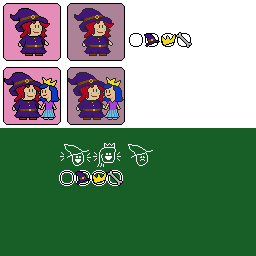
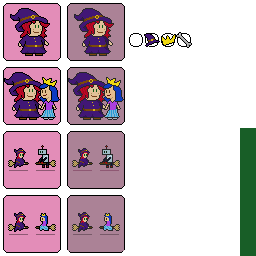
raceconfig ui, bare bones

diff --git a/src/game/modal/modal_raceconfig.c b/src/game/modal/modal_raceconfig.c
@@ -1,14 +1,23 @@
 /* modal_raceconfig.c
  * A menu that configures Broom Race Mode.
- *
- * TODO Choose player count and raceid interactively.
- * For now, I'm more interested in the actual race part, so the config is hard-coded.
  */
  
 #include "game/bellacopia.h"
+#include "game/race/race.h"
+
+#define RACE_LIMIT 8
 
 struct modal_raceconfig {
   struct modal hdr;
+  int playerc;
+  struct raceopt {
+    int raceid;
+    int strix_title;
+    int texid;
+    int x,y,w,h;
+  } raceoptv[RACE_LIMIT];
+  int raceoptc;
+  int raceoptp;
 };
 
 #define MODAL ((struct modal_raceconfig*)modal)
@@ -17,6 +26,10 @@ struct modal_raceconfig {
  */
  
 static void _raceconfig_del(struct modal *modal) {
+  while (MODAL->raceoptc>0) {
+    MODAL->raceoptc--;
+    egg_texture_del(MODAL->raceoptv[MODAL->raceoptc].texid);
+  }
 }
 
 /* Init.
@@ -25,6 +38,28 @@ static void _raceconfig_del(struct modal *modal) {
 static int _raceconfig_init(struct modal *modal,const void *args,int argslen) {
   modal->opaque=1;
   modal->interactive=1;
+  MODAL->playerc=1;
+  MODAL->raceoptp=0;
+  
+  /* Races must be ID'd consecutively from 1.
+   * Race rid matches strix in strings:arcade.
+   */
+  int y=80;
+  int raceid=1;
+  for (;MODAL->raceoptc<RACE_LIMIT;raceid++) {
+    if (!race_fld_by_id(raceid)) break;
+    struct raceopt *raceopt=MODAL->raceoptv+MODAL->raceoptc++;
+    raceopt->raceid=raceid;
+    raceopt->strix_title=raceid;
+    const char *src;
+    int srcc=text_get_string(&src,RID_strings_arcade,raceid);
+    raceopt->texid=font_render_to_texture(0,g.font,src,srcc,FBW,FBH,0xffffffff);
+    egg_texture_get_size(&raceopt->w,&raceopt->h,raceopt->texid);
+    raceopt->x=120;
+    raceopt->y=y;
+    y+=raceopt->h+1;
+  }
+  
   return 0;
 }
 
@@ -43,13 +78,15 @@ static void raceconfig_activate(struct modal *modal) {
   fprintf(stderr,"%d %s\n",(int)egg_time_real(),__func__);
   struct modal_args_broomrace args={
     //.playerc=1,//XXX
-    .playerc=2,
-    .raceid=RID_race_round_the_meadow,
+    //.playerc=2,
+    //.raceid=RID_race_round_the_meadow,
     //.raceid=RID_race_downstairs_lake,
     //.raceid=RID_race_across_the_tundra,
     //.raceid=RID_race_seaside_circle,
     //.raceid=RID_race_desert_run,
     //.raceid=RID_race_undernorth,
+    .playerc=MODAL->playerc,
+    .raceid=MODAL->raceoptv[MODAL->raceoptp].raceid,
   };
   struct modal *race=modal_spawn(&modal_type_broomrace,&args,sizeof(args));
   if (!race) {
@@ -58,10 +95,34 @@ static void raceconfig_activate(struct modal *modal) {
   }
 }
 
+/* Change player count.
+ */
+ 
+static void raceconfig_move_playerc(struct modal *modal,int d) {
+  int nc=MODAL->playerc+d;
+  if ((nc<1)||(nc>2)) return;
+  MODAL->playerc=nc;
+  bm_sound(RID_sound_uimotion);
+}
+
+/* Change race.
+ */
+ 
+static void raceconfig_move_raceid(struct modal *modal,int d) {
+  int np=MODAL->raceoptp+d;
+  if ((np<0)||(np>=MODAL->raceoptc)) return;
+  MODAL->raceoptp=np;
+  bm_sound(RID_sound_uimotion);
+}
+
 /* Update.
  */
  
 static void _raceconfig_update(struct modal *modal,double elapsed) {
+  if ((g.input[0]&EGG_BTN_LEFT)&&!(g.pvinput[0]&EGG_BTN_LEFT)) raceconfig_move_playerc(modal,-1);
+  if ((g.input[0]&EGG_BTN_RIGHT)&&!(g.pvinput[0]&EGG_BTN_RIGHT)) raceconfig_move_playerc(modal,1);
+  if ((g.input[0]&EGG_BTN_UP)&&!(g.pvinput[0]&EGG_BTN_UP)) raceconfig_move_raceid(modal,-1);
+  if ((g.input[0]&EGG_BTN_DOWN)&&!(g.pvinput[0]&EGG_BTN_DOWN)) raceconfig_move_raceid(modal,1);
   if ((g.input[0]&EGG_BTN_WEST)&&!(g.pvinput[0]&EGG_BTN_WEST)) raceconfig_dismiss(modal);
   if ((g.input[0]&EGG_BTN_SOUTH)&&!(g.pvinput[0]&EGG_BTN_SOUTH)) raceconfig_activate(modal);
 }
@@ -79,7 +140,26 @@ static void _raceconfig_focus(struct modal *modal,int focus) {
  */
  
 static void _raceconfig_render(struct modal *modal) {
-  graf_fill_rect(&g.graf,0,0,FBW,FBH,0x102030ff);
+  graf_fill_rect(&g.graf,0,0,FBW,FBH,0x185e27ff);
+  graf_set_image(&g.graf,RID_image_arcade);
+  
+  /* Top row indicates (playerc) with big decals.
+   */
+  int y=10;
+  graf_decal(&g.graf,(FBW>>1)-64,y,(MODAL->playerc==1)?0:64,128,64,64);
+  graf_decal(&g.graf,FBW>>1,y,(MODAL->playerc==2)?0:64,192,64,64);
+  
+  /* Text labels for (raceid).
+   */
+  struct raceopt *raceopt=MODAL->raceoptv;
+  int i=0;
+  for (;i<MODAL->raceoptc;i++,raceopt++) {
+    if (i==MODAL->raceoptp) {
+      graf_fill_rect(&g.graf,raceopt->x-1,raceopt->y-1,raceopt->w+2,raceopt->h+1,0x102040ff);
+    }
+    graf_set_input(&g.graf,raceopt->texid);
+    graf_decal(&g.graf,raceopt->x,raceopt->y,0,0,raceopt->w,raceopt->h);
+  }
 }
 
 /* Type definition.

diff --git a/src/game/race/multicamera.h b/src/game/race/multicamera.h
@@ -1,18 +1,11 @@
 /* multicamera.h
  * Replacement for the global "camera", to support 2-player broom races.
  * Unlike regular camera, we'll draw everything on the fly. And we don't need transitions. So there will be less state involved.
+ * Also, we don't participate in spawning sprites. But we do render anything you spawn.
  */
  
 #ifndef MULTICAMERA_H
 #define MULTICAMERA_H
-
-/* TODO How are we going to manage sprites?
- * Options:
- *  1. Nothing, just don't spawn anything.
- *  2. Manage locally and spawn static sprites but not rsprite. Keep everything live once spawned.
- *  3. Callbacks like regular camera, and keep everything live once spawned.
- * Will start with Option 1, Nothing, since it's easiest.
- */
 
 struct multicamera_view {
 

diff --git a/README.md b/README.md
@@ -52,7 +52,7 @@ Requires [Egg](https://github.com/aksommerville/egg2) to build.
 - [ ] Playing arcade mode after story mode, same run of the program, battles use the last visited map from story mode for background selection. Should use default.
 - [ ] I kind of want to throw the Princess in the Wishing Well. Can we make that happen?
 - [ ] Broom Race: Needs a bump sound when you crash. And can we do whooshing wind depending on velocity?
-- [ ] Do something if you fly a figure-eight around the sirens.
+- [x] Do something if you fly a figure-eight around the sirens.
 - [ ] Poker at the casino. UI in place and activity ready to write.
 - [ ] Blackjack at the casino. UI in place and activity ready to write.
 - [ ] Broom Races story: I really dislike the picture for the second (?) frame: "Some witches race on their brooms".
@@ -62,17 +62,17 @@ Requires [Egg](https://github.com/aksommerville/egg2) to build.
 - [ ] Casino arcade should pay out much less, maybe like `wager+difficulty`.
 - [x] Put a goat rsprite by the mountain zoo, because goats are special there. (exception to the general rule that zoo maps are no-rsprite).
 - [ ] Some fireworks when an animal gets captured.
-- [ ] 2-player race mode.
+- [x] 2-player race mode.
 - - [x] Is split screen feasible? Try running them one-player with the left and right quarter of the framebuffer blacked out to confirm.
 - - - Yes, it's a little tight but manageable.
 - - [x] If so, shouldn't be too crazy to implement. Do it as a new mode peer to Arcade and Story.
 - - [x] Alternative splittable camera, for broom races only.
-- - [ ] raceconfig ui
+- - [x] raceconfig ui
 - [ ] `race:downstairs_lake` uses darkness and firepots in story mode. Do we want that in Broom Race mode too? We don't currently have, and it would take some doing.
 - - [ ] Also the sirens in `race:seaside_circle`. And that might be a lighter lift.
 - [ ] Modal to terminate broom race. We have it in story mode, but not the 2-player or time-trial mode.
 - [ ] Revise `race.c:race_render_overlay()` re multiplayer. Show both players' lap and time, and don't print it in the middle at the end.
-- [ ] Picking up jigpieces or sticks during race mode is fine, but don't show the dialogue even the first time.
+- [x] Picking up jigpieces or sticks during race mode is fine, but don't show the dialogue even the first time. ...not doing sprites
 - [ ] Settings modal, via Hello.
 - [ ] Roll credits via Hello.
 
